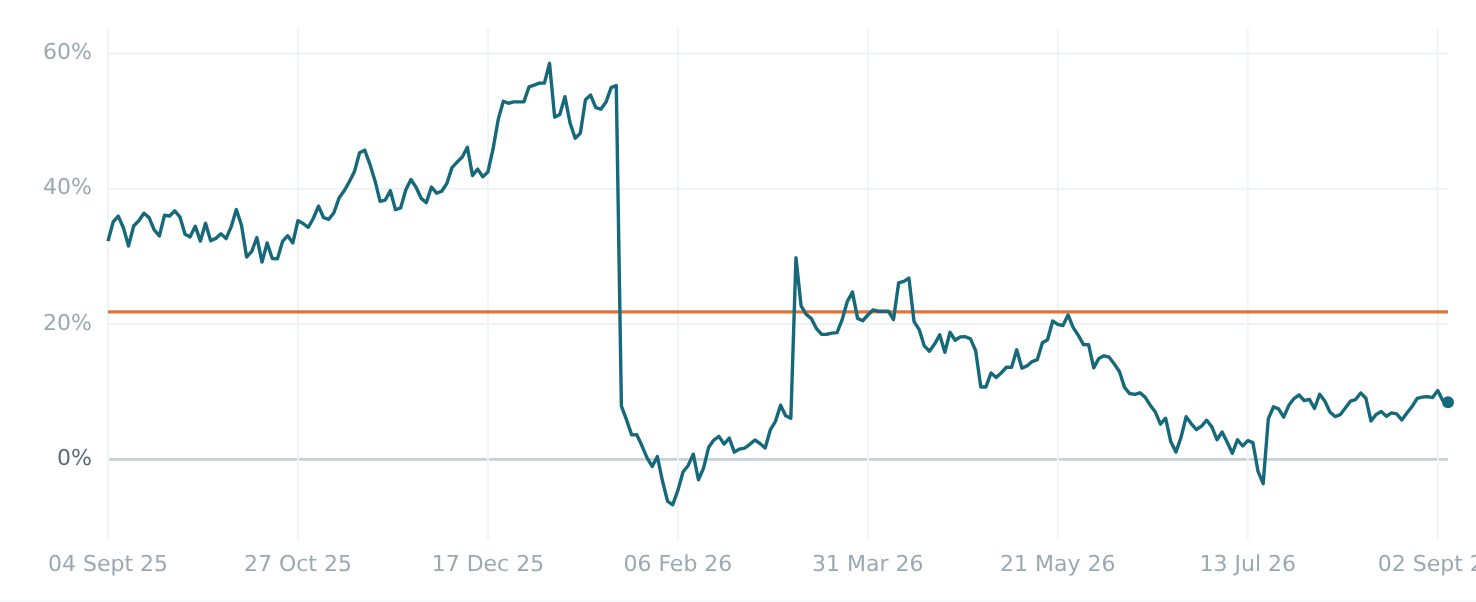
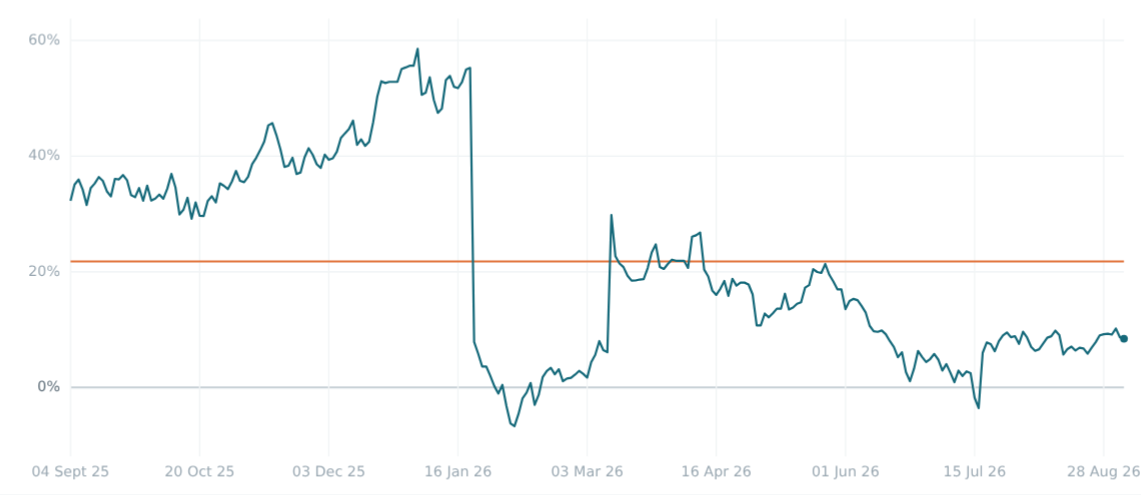
Fix clipped chart axis label and heavy mid-range position bars
drawChart() centres its last x-axis label on the final plotted point with only
14px of right padding, so at most render widths that label is truncated by the
canvas edge — and truncated in the bitmap, not just the screenshot, so no amount
of screenshot padding recovers it. Of the widths measured (820/900/960/1040/1120),
a 960px viewport leaves the most clearance at ~30px, enough for a "28 Aug 26"
label; the label stride lands on a kinder index there. Noted in mkcharts.mjs so
the choice is not mistaken for arbitrary.

Also drops the render density from dpr 2 to 1.3: an 878 CSS-px chart shown at
560px only needs ~1140px to be 2x on a retina screen, so this keeps the images
crisp while trimming the payload.

The summary table's mid-range position bars used the muted text colour, which is
too heavy as a 90px block of solid fill; they now use a lighter grey while the
percentile figure keeps the text colour.

Claude-Session: https://claude.ai/code/session_01QJEUwvKaWtVXFCsFhcis6G

diff --git a/pair_email.py b/pair_email.py
@@ -120,6 +120,11 @@ def pcol(p):
     """Colour a percentile only at a real extreme — see the note under the summary table."""
     return RED if p >= 60 else GREEN if p <= 40 else MUTED
 
+def pbar(p):
+    """Fill for the position bar. Mid-range uses a lighter grey than the text colour, which
+    is too heavy as a 90px block of solid fill."""
+    return RED if p >= 60 else GREEN if p <= 40 else '#AEB9C1'
+
 # ---------- building blocks ----------
 def kv(label, value, color=INK, bold=True):
     return ('<td><div class="k">{l}</div><div class="{w}" style="color:{c}">{v}</div></td>'
@@ -209,7 +214,7 @@ def build(d):
                '<td style="width:{w}px;height:9px;padding:0;background:{c};font-size:0;'
                'line-height:0;mso-line-height-rule:exactly"></td>'
                '<td style="padding:0;font-size:0;line-height:0"></td></tr></table>'
-               ).format(f=FAINT, L=LINE, w=w, c=pcol(st['pile']))
+               ).format(f=FAINT, L=LINE, w=w, c=pbar(st['pile']))
         tr.append(('<tr><td style="{td};font-weight:700;white-space:nowrap">{p}</td>'
                    '<td style="{td};text-align:right;color:{cc};font-weight:700">{cur}</td>'
                    '<td style="{td};text-align:right" >{mean}</td>'
